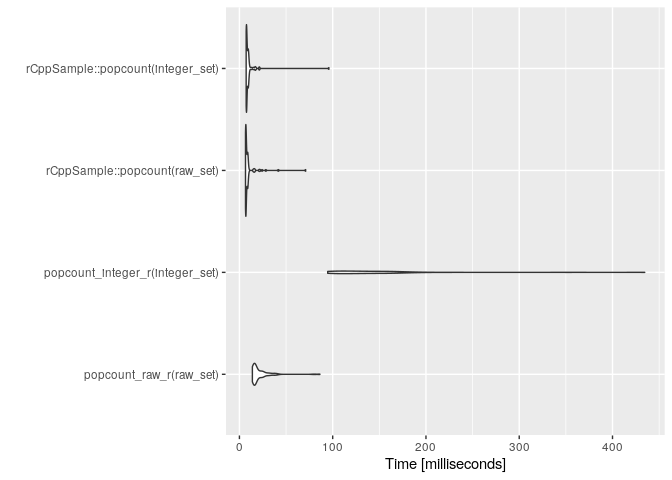
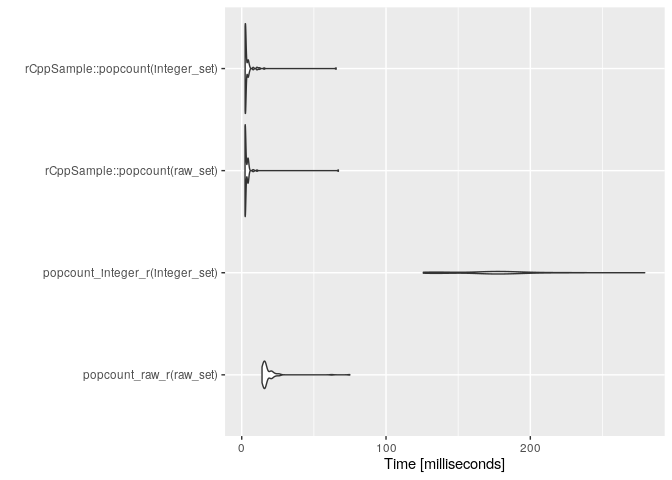
Use the popcnt instruction

diff --git a/r_proj/rCppSample/tests/test_popcount.cpp b/r_proj/rCppSample/tests/test_popcount.cpp
@@ -1,6 +1,7 @@
+#include <limits>
 #include <cstdint>
 #include <gtest/gtest.h>
-#include "test_popcount.h"
+#include "test_popcount.hpp"
 
 class TestPopcount : public ::testing::Test {};
 
@@ -32,6 +33,23 @@ TEST_F(TestPopcount, IntegerValues) {
         0x10000, 0x7ffffffe, 0x7fffffff, 0x70f0f0f0, 0xf0f0f0f};
     const rCppSample::IntegerVector expected {
         0, 1, 7, 8, 1, 16, 1, 30, 31, 15, 16
+    };
+    const auto actual = popcount_cpp_integer(arg);
+    ASSERT_EQ(expected.size(), actual.size());
+
+    auto size = actual.size();
+    for(decltype(size) i {0}; i < size; ++i) {
+        EXPECT_EQ(expected.at(i), actual.at(i));
+    }
+}
+
+TEST_F(TestPopcount, NAs) {
+    // Check NA values
+    const rCppSample::IntegerVector arg {
+        2, rCppSample::NaInteger, 14, rCppSample::NaInteger, 62
+    };
+    const rCppSample::IntegerVector expected {
+        1, rCppSample::NaInteger, 3, rCppSample::NaInteger, 5
     };
     const auto actual = popcount_cpp_integer(arg);
     ASSERT_EQ(expected.size(), actual.size());

diff --git a/python_proj/py_cpp_sample/src/cpp_impl_boost/popcount_impl_boost.cpp b/python_proj/py_cpp_sample/src/cpp_impl_boost/popcount_impl_boost.cpp
@@ -1,3 +1,5 @@
+#include <limits>
+#include <stdexcept>
 #include <type_traits>
 #include <boost/type_traits.hpp>
 #include "popcount_boost.hpp"
@@ -28,8 +30,11 @@ namespace py_cpp_sample {
         for(decltype(size) i {0}; i < size; ++i) {
             const auto value = src[i];
 #ifdef __GNUC__
-            static_assert(std::is_convertible<SourceType, unsigned long long>::value);
-            static_assert(std::is_same<unsigned long long,
+            using PopcountArg = unsigned long long;
+            static_assert(std::is_unsigned<SourceType>::value);
+            static_assert(std::is_unsigned<PopcountArg>::value);
+            static_assert(std::numeric_limits<SourceType>::max() <= std::numeric_limits<PopcountArg>::max());
+            static_assert(std::is_same<PopcountArg,
                           boost::function_traits<decltype(__builtin_popcountll)>::arg1_type>::value);
             const auto count = static_cast<Count>(__builtin_popcountll(value));
 #else

diff --git a/r_proj/rCppSample/src/popcount.cpp b/r_proj/rCppSample/src/popcount.cpp
@@ -1,6 +1,23 @@
-#include "popcount.h"
+#include "popcount.hpp"
 
 namespace {
+    template<typename T>
+    bool is_na_integer(const T& x) {
+#ifdef UNIT_TEST_CPP
+        return (x == rCppSample::NaInteger);
+#else // UNIT_TEST_CPP
+        return Rcpp::IntegerVector::is_na(x);
+#endif // UNIT_TEST_CPP
+    }
+
+    int get_na_value() {
+#ifdef UNIT_TEST_CPP
+        return rCppSample::NaInteger;
+#else // UNIT_TEST_CPP
+        return NA_INTEGER;
+#endif // UNIT_TEST_CPP
+    }
+
     //' Count 1's in each element
     //'
     //' @tparam T A type of integers
@@ -15,7 +32,7 @@ namespace {
         for(decltype(size) i = 0; i < size; ++i) {
             const auto x = xs[i];
 #ifdef __GNUC__
-            const auto v = __builtin_popcount(x);
+            const auto v = is_na_integer(x) ? get_na_value() : __builtin_popcount(x);
 #else
 #error Use an alternative of __builtin_popcount
 #endif

diff --git a/python_proj/py_cpp_sample/setup.py b/python_proj/py_cpp_sample/setup.py
@@ -5,11 +5,14 @@ A Python and C++ sample project
 from setuptools import setup, Extension
 from pybind11.setup_helpers import Pybind11Extension
 
+CPU_ARCH_FLAG = '-msse4.2'
+
 setup(
     ext_modules=[Pybind11Extension(
         'py_cpp_sample.py_cpp_sample_cpp_impl',
         sources=['src/cpp_impl/popcount.cpp',
                  'src/cpp_impl/popcount_impl.cpp'],
+        extra_compile_args=[CPU_ARCH_FLAG],
     ),
         Extension(
         'py_cpp_sample.py_cpp_sample_cpp_impl_boost',
@@ -20,6 +23,6 @@ setup(
         library_dirs=['/opt/boost/lib'],
         runtime_library_dirs=[],
         libraries=['boost_python', 'boost_numpy'],
-        extra_compile_args=['-isystem', '/opt/boost/include']
+        extra_compile_args=['-isystem', '/opt/boost/include', CPU_ARCH_FLAG],
     )]
 )

diff --git a/r_proj/rCppSample/src/popcount.hpp b/r_proj/rCppSample/src/popcount.hpp
@@ -1,4 +1,5 @@
 #ifdef UNIT_TEST_CPP
+#include <limits>
 #include <vector>
 #include <cstdint>
 #else // UNIT_TEST_CPP
@@ -12,11 +13,13 @@ namespace rCppSample {
     using RawVector = std::vector<uint8_t>;
     using ArgIntegerVector = const std::vector<int>&;
     using ArgRawVector = const std::vector<uint8_t>&;
+    constexpr int NaInteger = std::numeric_limits<int>::min();
 #else // UNIT_TEST_CPP
     using IntegerVector = Rcpp::IntegerVector;
     using RawVector = Rcpp::RawVector;
     using ArgIntegerVector = Rcpp::IntegerVector;
     using ArgRawVector = Rcpp::RawVector;
+    const int NaInteger = NA_INTEGER;
 #endif // UNIT_TEST_CPP
 }
 

diff --git a/python_proj/py_cpp_sample/src/cpp_impl_boost/popcount_boost.hpp b/python_proj/py_cpp_sample/src/cpp_impl_boost/popcount_boost.hpp
@@ -1,6 +1,6 @@
+#include <cstdint>
 #include <boost/python.hpp>
 #include <boost/python/numpy.hpp>
-#include <cstdint>
 
 /**
  C++ implementation

diff --git a/python_proj/py_cpp_sample/tests/test_popcount.cpp b/python_proj/py_cpp_sample/tests/test_popcount.cpp
@@ -1,4 +1,5 @@
 #include <limits>
+#include <stdexcept>
 #include <type_traits>
 #include <vector>
 #include <gtest/gtest.h>

diff --git a/python_proj/py_cpp_sample/src/cpp_impl/popcount_impl.cpp b/python_proj/py_cpp_sample/src/cpp_impl/popcount_impl.cpp
@@ -1,3 +1,4 @@
+#include <stdexcept>
 #include "popcount.hpp"
 
 namespace py_cpp_sample {

diff --git a/r_proj/rCppSample/tests/test_popcount.hpp b/r_proj/rCppSample/tests/test_popcount.hpp
@@ -1,4 +1,4 @@
-#include "popcount.h"
+#include "popcount.hpp"
 
 /*
 Local Variables:

diff --git a/r_proj/rCppSample/README.md b/r_proj/rCppSample/README.md
@@ -70,6 +70,9 @@ rmarkdown::render("README.Rmd")
 
 ## Benchmarking
 
+If the target is x86-64, make sure Makevars includes
+`PKG_CXXFLAGS=-msse4.2` that lets compilers use the popcnt instruction.
+
 <img src="man/figures/README-draw_benchmark-1.png" width="80%" />
 <table>
 <thead>
@@ -78,13 +81,10 @@ rmarkdown::render("README.Rmd")
 method
 </th>
 <th style="text-align:left;">
-mean
-</th>
-<th style="text-align:left;">
 median
 </th>
 <th style="text-align:left;">
-ratio (median)
+ratio
 </th>
 </tr>
 </thead>
@@ -94,10 +94,7 @@ ratio (median)
 rCppSample::popcount(raw_set)
 </td>
 <td style="text-align:left;">
-9.46828
-</td>
-<td style="text-align:left;">
-7.09195
+2.42805
 </td>
 <td style="text-align:left;">
 1.00000
@@ -108,13 +105,10 @@ rCppSample::popcount(raw_set)
 rCppSample::popcount(integer_set)
 </td>
 <td style="text-align:left;">
-9.88214
+2.58995
 </td>
 <td style="text-align:left;">
-7.87855
-</td>
-<td style="text-align:left;">
-1.11091
+1.06668
 </td>
 </tr>
 <tr>
@@ -122,13 +116,10 @@ rCppSample::popcount(integer_set)
 popcount_raw_r(raw_set)
 </td>
 <td style="text-align:left;">
-21.54808
+16.28890
 </td>
 <td style="text-align:left;">
-16.90710
-</td>
-<td style="text-align:left;">
-2.38398
+6.70863
 </td>
 </tr>
 <tr>
@@ -136,13 +127,10 @@ popcount_raw_r(raw_set)
 popcount_integer_r(integer_set)
 </td>
 <td style="text-align:left;">
-138.72417
+173.58930
 </td>
 <td style="text-align:left;">
-131.02085
-</td>
-<td style="text-align:left;">
-18.47459
+71.49330
 </td>
 </tr>
 </tbody>

diff --git a/python_proj/py_cpp_sample/README.md b/python_proj/py_cpp_sample/README.md
@@ -140,11 +140,13 @@ In this package, pytest measures performance of Python and C++ code.
 pytest tests
 ```
 
-|Name (time in ms)|Mean|Median|
-|:------------------------|:----------------|:---------------|
-|test_popcount_py_uint8|4.6071 (1.0)|4.5590 (1.0)|
-|test_popcount_cpp_uint8|5.8161 (1.26)|5.7971 (1.27)|
-|test_popcount_cpp_uint64|5.8555 (1.27)|5.8595 (1.29)|
-|test_popcount_cpp_uint8_boost|6.4801 (1.41)|6.4774 (1.42)|
-|test_popcount_cpp_uint64_boost|6.5439 (1.42)|6.5480 (1.44)|
-|test_popcount_py_uint64|95.6931 (20.77)|95.5873 (20.97)|
+If the target is x86-64, make sure `extra_compile_args` in setup.py includes `-msse4.2` that lets compilers use the popcnt instruction.
+
+|Name (time in us)|Median|
+|:------------------------|:-------------------------------|
+|test_popcount_cpp_uint8|817.8250 (1.0)|
+|test_popcount_cpp_uint8_boost|1,026.9750 (1.26)|
+|test_popcount_cpp_uint64|1,307.8000 (1.60)|
+|test_popcount_cpp_uint64_boost|1,474.6000 (1.80)|
+|test_popcount_py_uint8|4,625.5250 (5.66)|
+|test_popcount_py_uint64|96,573.4250 (118.09)|
